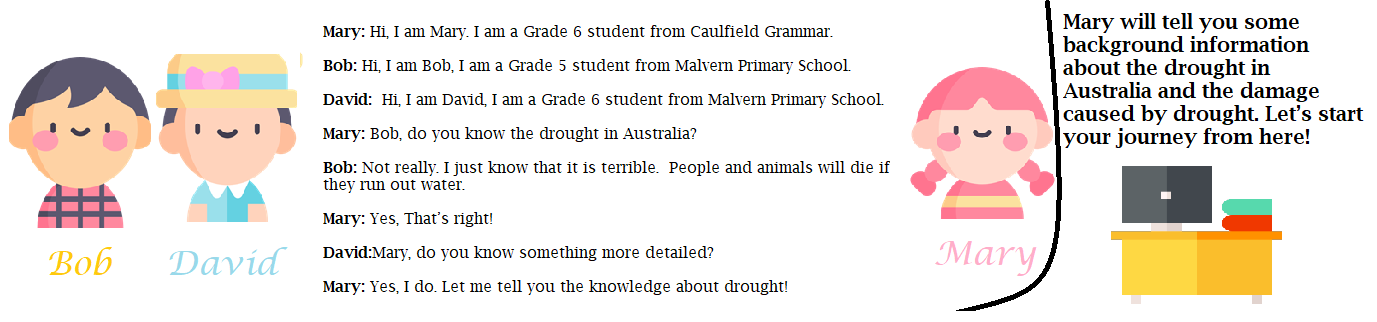
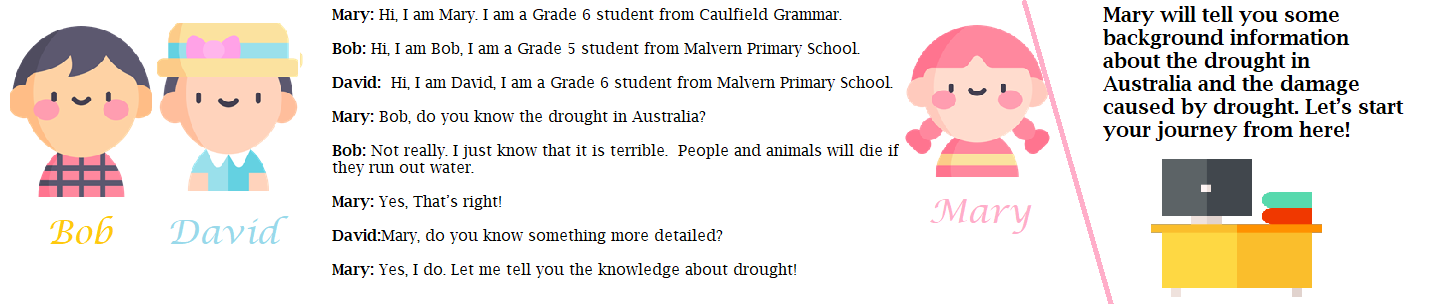
Fix slideshow in homepage
! side effect, set background to contain leave blank on sides. !

diff --git a/src/components/Header.jsx b/src/components/Header.jsx
@@ -33,6 +33,13 @@ const styles = {
   },
 };
 
+const imgSlideStyle = {
+  backgroundPosition: "center",
+  backgroundRepeat: "no-repeat",
+  width: "auto",
+  height: "1010px",
+};
+
 const images = [slideShow1, slideShow2, slideShow3, slideShow4, slideShow5];
 
 const scrollToRef = (ref) => window.scrollTo(0, ref.current.offsetTop);
@@ -48,11 +55,8 @@ const Header = (props) => {
         <div
           style={{
             backgroundImage: `url(${image})`,
-            backgroundPosition: "center",
-            backgroundSize: "cover",
-            backgroundRepeat: "no-repeat",
-            width: "auto",
-            height: "1010px",
+            backgroundSize: "contain",
+            ...imgSlideStyle,
           }}
         />
       </div>
@@ -75,12 +79,9 @@ const Header = (props) => {
         <div
           className="each-slide"
           style={{
-            backgroundImage: `url(${main_background})`,
-            backgroundPosition: "center",
+            ...imgSlideStyle,
             backgroundSize: "cover",
-            backgroundRepeat: "no-repeat",
-            width: "auto",
-            height: "1010px",
+            backgroundImage: `url(${main_background})`,
           }}
         >
           <div className={classes.title}>
@@ -131,11 +132,8 @@ const Header = (props) => {
           <div
             style={{
               backgroundImage: `url(${slideShow5})`,
-              backgroundPosition: "center",
-              backgroundSize: "cover",
-              backgroundRepeat: "no-repeat",
-              width: "auto",
-              height: "1010px",
+              backgroundSize: "contain",
+              ...imgSlideStyle,
             }}
           >
             <StyleRoot>
